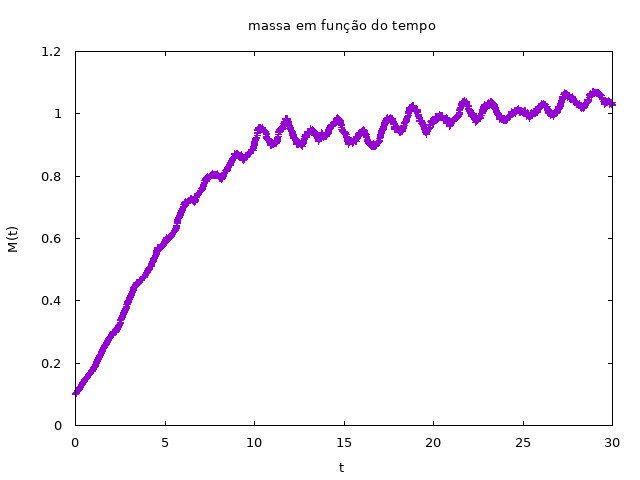
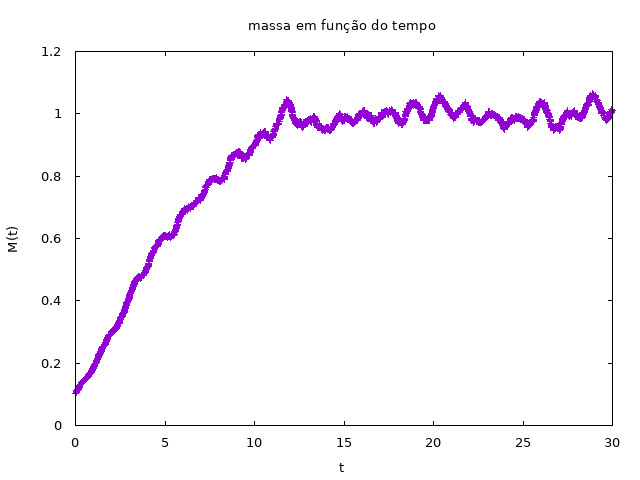
GrowthCosAInv
adicionado o GrowthCosAInv e seus resultados.

diff --git a/GrowthCosAInv.cpp b/GrowthCosAInv.cpp
@@ -1,0 +1,41 @@
+/* 
+ * File:   GrowthCosAInv.cpp
+ * Author: flpin
+ * 
+ * Created on 25 de Fevereiro de 2019, 15:26
+ */
+#include "GrowthCosAInv.h"
+#include "Gnuplot.h"
+
+#include <string>
+#include <iostream>
+#include <fstream>
+
+using namespace std;
+
+GrowthCosAInv::GrowthCosAInv(double x, double y, double a, double b, double epsilon, double omega) :
+GrowthCosA(x, y, a, b, -epsilon, omega) {
+    this->inPut = "GrowthCosAInv";
+}
+#define t0 1
+void GrowthCosAInv::run() {
+    double m0 = getY();
+    
+    setInPut(getY(), maxMass());
+    ofstream file;
+    file.open("out/" + getInPut() + ".out");
+    for (double x = 0; x <= t0; x += 0.01) {
+        setX(x);
+        setY(m0);
+        while (getX() <= t0) {
+            RK4(0.01);
+        }
+        file << x << " " << getY() << " " << M( t0 - x) << endl;
+    }
+
+    file.close();
+    Gnuplot gnu("massa em função do tempo", "t", "M(t)");
+    gnu.makeScript2(getInPut());
+    gnu.close();
+}
+

diff --git a/Gnuplot.cpp b/Gnuplot.cpp
@@ -46,6 +46,18 @@ void Gnuplot::makeScript() {
     this->file << _TERM_JPG_ << endl;
 }
 
+void Gnuplot::makeScript2( string outPutName){
+    makeScript();
+    this->file << "set key on" << endl;
+    this->file << "set out 'jpg/" << outPutName << ".jpg'" << endl;
+    this->file << "plot 'out/" << outPutName << ".out' using 1:2 t \"numerico\", 'out/" << outPutName << ".out' using 1:3 t\"teorico\" " << endl;
+#if _FINAL_
+    this->file << _TERM_PS_ << endl;
+    this->file << "set out 'ps/" << outPutName << ".ps'" << endl;
+    this->file << "replot" << endl;
+#endif
+}
+
 /**
  * função makeScript - cria o script gnuplot para ser executado.
  * @param outPutName - nome do arquivo de saida e de entrada de dados.

diff --git a/main.cpp b/main.cpp
@@ -8,6 +8,7 @@
 #include "Test.h"
 #include "Growth.h"
 #include "GrowthCosA.h"
+#include "GrowthCosAInv.h"
 #include "GrowthCosB.h"
 #include "GrowthCosAB.h"
 #include "GrowthCosARand.h"
@@ -57,6 +58,9 @@ int main(int argc, char** argv) {
 
         GrowthCosB gb(x, y, a, b, epsilon, omega);
         gb.run();
+        
+        GrowthCosAInv gai(x, y, a, b, epsilon, omega);
+        gai.run();
 
         Gnuplot gnu("massa em função do tempo", "t", "M(t)");
         gnu.makeScript(ga.getInPut(), gb.getInPut());

diff --git a/GrowthCosAInv.h b/GrowthCosAInv.h
@@ -1,0 +1,22 @@
+/* 
+ * File:   GrowthCosAInv.h
+ * Author: flpin
+ *
+ * Created on 25 de Fevereiro de 2019, 15:25
+ */
+
+#ifndef GROWTHCOSAINV_H
+#define GROWTHCOSAINV_H
+
+#include "GrowthCosA.h"
+
+class GrowthCosAInv : public GrowthCosA {
+public:
+    GrowthCosAInv(double x, double y, double a, double b, double epsilon, double omega);
+    virtual void run() override;
+private:
+
+};
+
+#endif /* GROWTHCOSAINV_H */
+

diff --git a/RungeKutta.cpp b/RungeKutta.cpp
@@ -39,10 +39,16 @@ string RungeKutta::toString() {
     strsY << this->y;
     return strsX.str() + " " + strsY.str();
 }
-
+void RungeKutta::setX(double x){
+    this->x = x;
+}
 double RungeKutta::getX(){
     return this->x;
 }
+void RungeKutta::setY(double y){
+    this->y = y;
+}
+
 double RungeKutta::getY(){
     return this->y;
 }

diff --git a/Gnuplot.h b/Gnuplot.h
@@ -25,6 +25,7 @@ public:
     Gnuplot(string title, string xl, string yl);
     void makeScript();
     void makeScript( string outPutName);
+    void makeScript2( string outPutName);
     void makeScript( string outPutName1, string outPutName2);
     void makeScript( Growth * g);
     void close();

diff --git a/RungeKutta.h b/RungeKutta.h
@@ -17,8 +17,10 @@ public:
     virtual double dydx(double x, double y) = 0;
     void RK4(double h);
     string toString();
+    void setX(double x);
     double getX();
     double getY();
+    void setY(double u);
 private:
     double x, y;
 

diff --git a/Growth.h b/Growth.h
@@ -30,7 +30,7 @@ public:
     double getChi();
     void runge();
     double maxMass();
-    void run();
+    virtual void run();
     double M(double t);
 protected:
     string inPut;
